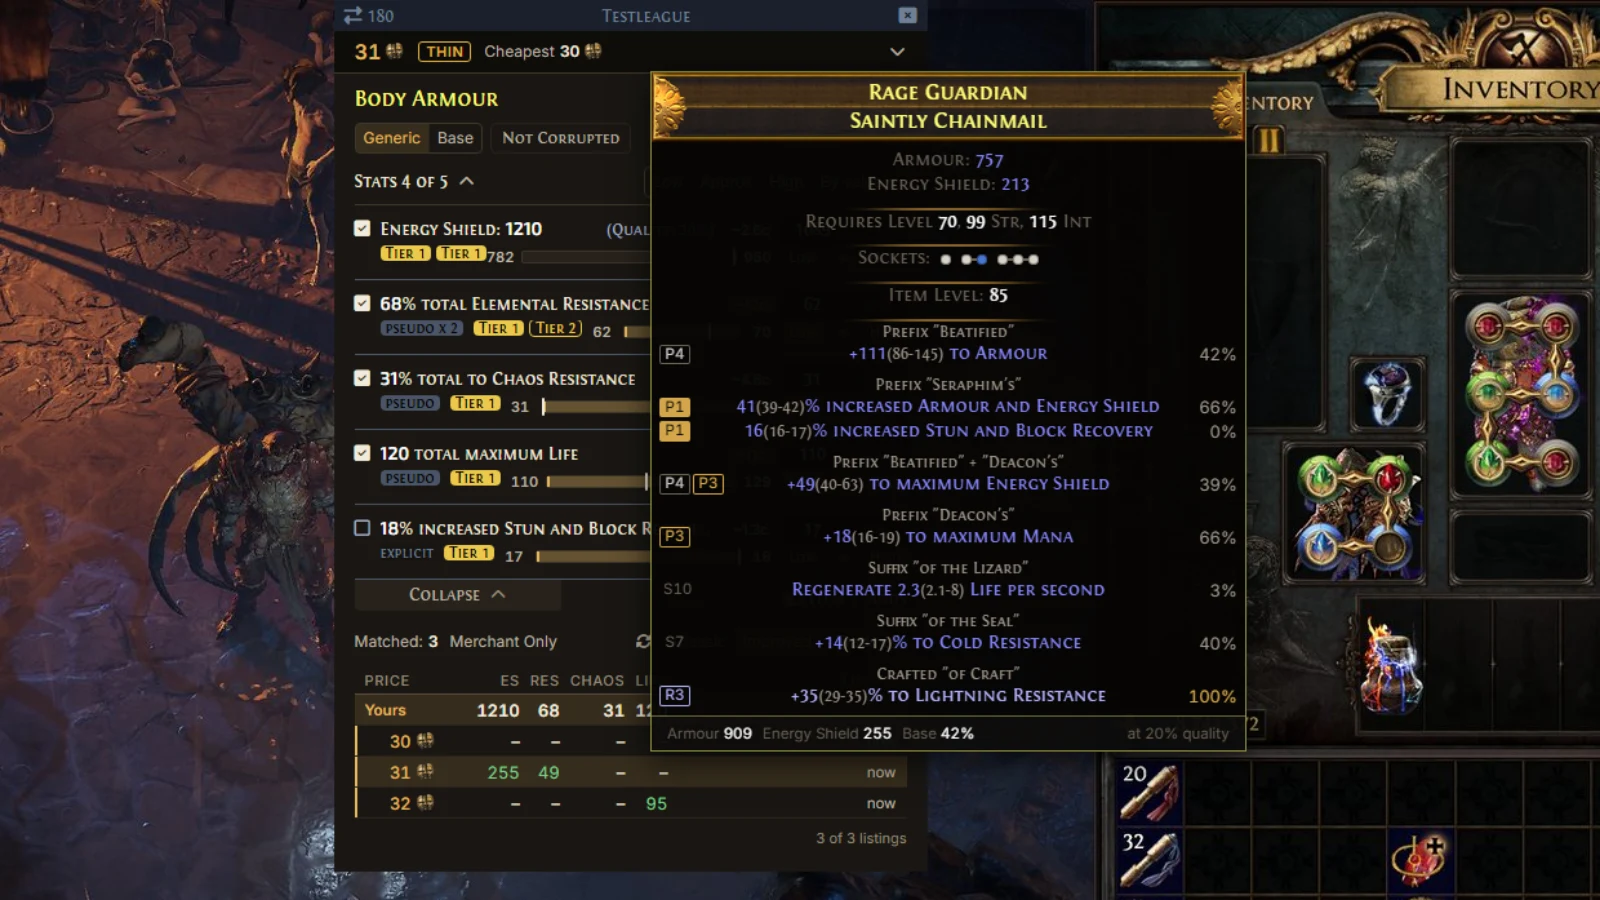
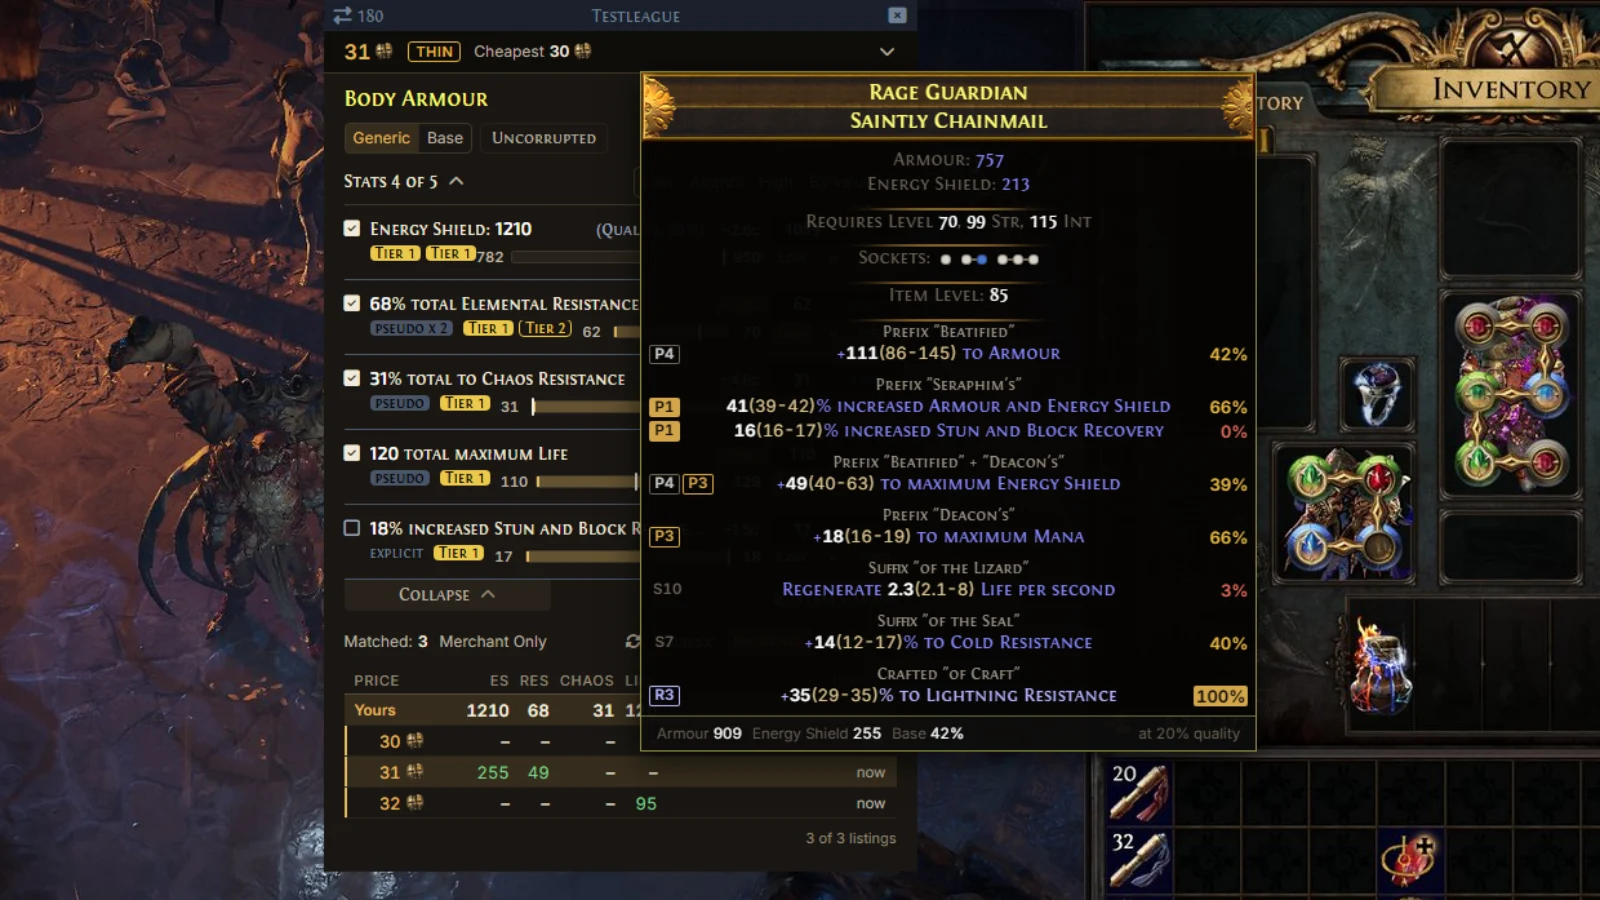
Landing page and README: what's new since v0.1.0
New slides from the real overlay: roll bars, next step, passive tree,
swap check, build icon, drop counter and death recap. Retook the shots
of panels that changed, and the stash highlighter names the tabs it reads.

diff --git a/testing/e2e/landing-highlights.spec.ts b/testing/e2e/landing-highlights.spec.ts
@@ -176,6 +176,12 @@ test('price check: a listing\'s tooltip, tiers and rolls', async ({ overlay }) =
   const tip = overlay.page.getByRole('tooltip')
   await expect(tip).toContainText('Rage Guardian')
   await saveAround(overlay, 'hl-price-tooltip', [panel.locator('.w-pc-table'), tip], 1240)
+  // Shift + scroll over the listing swaps the ranges for a bar on each roll.
+  await overlay.page.keyboard.down('Shift')
+  await overlay.page.mouse.wheel(0, 100)
+  await expect(tip.locator('[class*="bar"]').first()).toBeVisible()
+  await saveAround(overlay, 'hl-price-bars', [panel.locator('.w-pc-table'), tip], 1240)
+  await overlay.page.keyboard.up('Shift')
 })
 
 // ---- 2. Loot filter ----
@@ -239,6 +245,134 @@ test('pob: gems by level', async ({ overlay }) => {
   const detail = await openBuild(overlay)
   await overlay.page.mouse.move(1800, 1000)
   await saveAround(overlay, 'hl-pob-levelling', [detail], 1280)
+})
+
+const showcaseInUse = () => [{
+  wmType: 'woke-pob-builds',
+  wmWants: 'hide' as const,
+  wmFlags: ['invisible-on-blur'],
+  anchor: { pos: 'tl', x: 4, y: 12 },
+  buildsDir: path.join(FIXTURES, 'pob'),
+  pobExe: '',
+  pinned: [],
+  activeBuild: 'Showcase.xml',
+  followChars: {},
+  loadouts: {}
+}]
+
+test('pob: a checked item against the one your build wears', async ({ overlay }) => {
+  await overlay.boot({ widgets: showcaseInUse() })
+  await backdrop(overlay, 'frames/town-inventory.jpg')
+  await overlay.copyItem('items/rare-body-armour-es.txt')
+  const panel = overlay.widget('price-check')
+  const chip = panel.locator('[data-swap-chip]')
+  await expect(chip).toContainText('Compare to your body armour')
+  await chip.hover()
+  const tip = overlay.page.getByRole('tooltip')
+  await expect(tip).toContainText('Against your body armour')
+  await saveAround(overlay, 'hl-pob-swap', [panel.getByText('Body Armour'), panel.getByRole('button', { name: 'Search' }), tip], 1000)
+})
+
+test('pob: the build in use, on one small icon', async ({ overlay }) => {
+  await overlay.boot({ patch: lowDock, widgets: [{ ...showcaseInUse()[0], activeBuild: 'Loadouts.xml' }] })
+  await backdrop(overlay, 'frames/hideout.jpg')
+  await overlay.replayLog('client-logs/campaign-act1.txt')
+  await overlay.hoverDockIcon('pob-builds')
+  await expect(overlay.page.getByText('Your links')).toBeVisible()
+  await saveLow(overlay, 'hl-pob-hover')
+})
+
+// The Loadouts fixture allocates four points, too few to see on a whole tree.
+// The same build with real paths from the Witch start, walked over the tree
+// data: the next set adds a path to one more notable and respecs two points.
+function grownBuildsDir () {
+  type Node = [number, number, number, string, string, string[], number[]]
+  const nodes: Node[] = JSON.parse(fs.readFileSync(path.resolve(path.dirname(fileURLToPath(import.meta.url)), '../../renderer/public/data/tree/passive-tree.json'), 'utf8'))
+  const walkable = new Set(nodes.filter(n => n[3] !== 'asc' && n[3] !== 'mastery').map(n => n[0]))
+  const links = new Map<number, number[]>()
+  for (const [id, , , , , , out] of nodes) {
+    for (const to of out) {
+      if (!walkable.has(id) || !walkable.has(to)) continue
+      links.set(id, [...links.get(id) ?? [], to])
+      links.set(to, [...links.get(to) ?? [], id])
+    }
+  }
+  const WITCH = 54447
+  const from = new Map<number, number>([[WITCH, WITCH]])
+  const dist = new Map<number, number>([[WITCH, 0]])
+  for (const queue = [WITCH]; queue.length;) {
+    const at = queue.shift()!
+    for (const to of links.get(at) ?? []) {
+      if (from.has(to)) continue
+      from.set(to, at)
+      dist.set(to, dist.get(at)! + 1)
+      queue.push(to)
+    }
+  }
+  const pathTo = (id: number) => {
+    const out: number[] = []
+    for (let at = id; at !== WITCH; at = from.get(at)!) out.push(at)
+    return out
+  }
+  const notables = nodes.filter(n => n[3] === 'notable' && (dist.get(n[0]) ?? 99) >= 6 && dist.get(n[0])! <= 16).sort((a, b) => a[4].localeCompare(b[4]))
+  const picks = Array.from({ length: 9 }, (_, i) => notables[Math.floor((i + 0.5) * notables.length / 9)][0])
+  const first = new Set(picks.slice(0, 8).flatMap(pathTo))
+  const next = new Set([...first, ...pathTo(picks[8])])
+  const leaves = [...pathTo(picks[7])].filter(id => !picks.slice(0, 7).flatMap(pathTo).includes(id) && !pathTo(picks[8]).includes(id)).slice(0, 2)
+  for (const id of leaves) next.delete(id)
+  const dir = fs.mkdtempSync(path.join(os.tmpdir(), 'woke-landing-pob-'))
+  const xml = fs.readFileSync(path.join(FIXTURES, 'pob/Loadouts.xml'), 'utf8')
+    .replace('nodes="94,127,223,33435"', `nodes="${[...next].join(',')}"`)
+    .replace('nodes="94,127,223"', `nodes="${[...first].join(',')}"`)
+  fs.writeFileSync(path.join(dir, 'Loadouts.xml'), xml)
+  return dir
+}
+
+async function openLevellingBuild (overlay: Overlay, buildsDir = path.join(FIXTURES, 'pob')) {
+  await overlay.boot({
+    overlayActive: true,
+    widgets: [
+      {
+        wmType: 'woke-pob-builds',
+        wmWants: 'show',
+        wmFlags: ['invisible-on-blur'],
+        anchor: { pos: 'tl', x: 4, y: 12 },
+        buildsDir,
+        pobExe: '',
+        pinned: [],
+        activeBuild: 'Loadouts.xml',
+        followChars: {},
+        loadouts: {}
+      },
+      { wmType: 'woke-campaign', wmWants: 'show' }
+    ]
+  })
+  await backdrop(overlay, 'frames/town.jpg')
+  await overlay.replayLog('client-logs/campaign-act1.txt')
+  return overlay.page.locator('[data-w-panel]').filter({ hasText: 'Open in PoB' })
+}
+
+test('pob: what changes at the next step', async ({ overlay }) => {
+  const detail = await openLevellingBuild(overlay)
+  await expect(detail.getByRole('button', { name: /Tree: Day 1\.5 Clusters/ })).toContainText('Holy Dominion')
+  await overlay.page.mouse.move(1800, 1000)
+  await saveAround(overlay, 'hl-pob-next', [detail], 1280)
+})
+
+test('pob: the passive tree in the overlay', async ({ overlay }) => {
+  const dir = grownBuildsDir()
+  try {
+    const detail = await openLevellingBuild(overlay, dir)
+    await detail.getByRole('button', { name: /Tree: Day 1\.5 Clusters/ }).click()
+    const tree = overlay.page.locator('[data-w-panel]').filter({ hasText: 'Passive tree' }).filter({ has: overlay.page.locator('svg') }).last()
+    await expect(tree).toContainText(/\d+ new points?/)
+    // Only the tree in the picture, not the panels it opened over.
+    await detail.evaluate(el => { el.style.visibility = 'hidden' })
+    await overlay.page.mouse.move(1800, 1000)
+    await saveAround(overlay, 'hl-pob-tree', [tree], 1280)
+  } finally {
+    fs.rmSync(dir, { recursive: true, force: true })
+  }
 })
 
 // ---- 4. Market ----
@@ -368,6 +502,61 @@ test('on screen: challenges, your count and what is next', async ({ overlay }) =
   await expect(overlay.dockIcon('challenges')).toBeVisible({ timeout: 20_000 })
   await overlay.hoverDockIcon('challenges')
   await saveLow(overlay, 'hl-challenges')
+})
+
+test('on screen: the drop counter, on one small icon', async ({ overlay }) => {
+  await overlay.boot({
+    patch: lowDock,
+    widgets: [{
+      wmType: 'woke-drop-counter',
+      wmFlags: ['invisible-on-blur'],
+      wmTitle: 'Drop counter',
+      anchor: { pos: 'cc', x: 50, y: 50 },
+      items: [
+        { type: 'Currency', name: 'Divine Orb', drops: [2, 9, 21, 38] },
+        { type: 'Currency', name: 'Exalted Orb', drops: [7, 33] },
+        { type: 'Currency', name: 'Orb of Annulment', drops: [12, 25, 40] }
+      ],
+      maps: 44,
+      autoCountMaps: true,
+      layout: 'list',
+      hotkey: null
+    } as never]
+  })
+  await backdrop(overlay, 'frames/hideout.jpg')
+  await overlay.log([area('HideoutLuxurious')])
+  await expect(overlay.dockIcon('drop-counter')).toBeVisible({ timeout: 20_000 })
+  await overlay.hoverDockIcon('drop-counter')
+  await expect(overlay.dockIcon('drop-counter').getByRole('button', { name: 'Add one Divine Orb' })).toBeVisible()
+  await saveLow(overlay, 'hl-drop-counter')
+})
+
+test('on screen: the death recap names the map\'s mods', async ({ overlay, fakeApp }) => {
+  fs.rmSync(path.join(fakeApp.opts.userData, 'woke-death-recap'), { recursive: true, force: true })
+  // Log times run on from now, so the death comes a while into the map.
+  const stamp = (later = 0) => {
+    const d = new Date(Date.now() + later * 1000)
+    const p = (n: number) => String(n).padStart(2, '0')
+    return `${d.getFullYear()}/${p(d.getMonth() + 1)}/${p(d.getDate())} ${p(d.getHours())}:${p(d.getMinutes())}:${p(d.getSeconds())}`
+  }
+  const areaNow = (id: string, seed: string, level = 83) => `${stamp()} 18884906 1186a8a3 [DEBUG Client 34092] Generating level ${level} area "${id}" with seed ${seed}`
+  const info = (text: string, later = 0) => `${stamp(later)} 18887484 cffb065b [INFO Client 34092] ${text}`
+  await overlay.boot({ patch: lowDock, widgets: [{ wmType: 'woke-map-mods' }] })
+  // Zoomed past the frame's "You have entered" line, which names another area.
+  await backdrop(overlay, 'frames/cave-fight.jpg', 'right bottom / 130%')
+  await overlay.log([areaNow('HideoutArenaSearingExarch', '1', 60), info(': You have entered Searing Hideout.')])
+  await overlay.copyItem('items/map-rare-t16-deadly.txt', 'Alt + M')
+  await expect(overlay.page.locator('body')).toContainText('Cemetery')
+  overlay.app.focusGame(true)
+  await overlay.page.waitForTimeout(300)
+  await overlay.log([areaNow('MapWorldsCemetery', '42'), info(': You have entered Cemetery.'), info('The Maven: Show me.', 248), info(': Exile has been slain.', 252)])
+  const card = overlay.page.locator('[data-death-card]')
+  await expect(async () => {
+    await overlay.hoverDockIcon('death-recap')
+    await expect(card).toBeVisible({ timeout: 1500 })
+  }).toPass({ timeout: 20_000 })
+  await expect(card).toContainText('Exact')
+  await saveLow(overlay, 'hl-death-recap')
 })
 
 // ---- 6. Lab gems and regex ----

diff --git a/docs/.vitepress/theme/landing/content.js b/docs/.vitepress/theme/landing/content.js
@@ -14,7 +14,8 @@ export const HIGHLIGHTS = [
     tag: 'See what you are up against',
     slides: [
       { label: 'Competing listings', module: 'apt-price-check', shot: 'hl-price-columns', text: 'Every listing beside yours, stat by stat. Green where yours is better, red where theirs is.', alt: 'Price check of a body armour: eight listings with energy shield, resistances and life compared to yours' },
-      { label: 'Listing tooltip', module: 'apt-price-check', shot: 'hl-price-tooltip', text: 'Hover a listing to see the item as the game shows it, with mod tiers and how good each roll is.', alt: 'Tooltip of a listed body armour with the tier and roll quality of each mod' }
+      { label: 'Listing tooltip', module: 'apt-price-check', shot: 'hl-price-tooltip', text: 'Hover a listing to see the item as the game shows it, with mod tiers and how good each roll is.', alt: 'Tooltip of a listed body armour with the tier and roll quality of each mod' },
+      { label: 'Roll bars', module: 'apt-price-check', shot: 'hl-price-bars', text: 'Shift + scroll over a listing swaps the ranges for a bar on every roll, so you see how close each one came.', alt: 'The same listing tooltip with a coloured bar and percentage for each rolled number' }
     ]
   },
   {
@@ -32,8 +33,12 @@ export const HIGHLIGHTS = [
     name: 'Path of Building',
     tag: 'Your build, no alt-tab',
     slides: [
-      { label: 'Gear and links', module: 'pob-builds', shot: 'hl-pob-gear', text: 'Your gear and gem links from your PoB folder, with item tooltips and the passive tree a click away.', alt: 'A build\'s gear tab with an item tooltip and buttons for Path of Building and the passive tree' },
-      { label: 'Levelling', module: 'pob-builds', shot: 'hl-pob-levelling', text: 'Gems by level, and where to get each one.', alt: 'A build\'s leveling tab: gem links, and each gem by level with its vendor or quest' }
+      { label: 'Gear and links', module: 'pob-builds', shot: 'hl-pob-gear', text: 'Your gear and gem links from your PoB folder, with item tooltips. The search on any item opens it in the price check.', alt: 'A build\'s gear tab with an item tooltip and a price check button on each item' },
+      { label: 'Levelling', module: 'pob-builds', shot: 'hl-pob-levelling', text: 'Gems by level, and where to get each one.', alt: 'A build\'s leveling tab: gem links, and each gem by level with its vendor or quest' },
+      { label: 'Next step', module: 'pob-builds', shot: 'hl-pob-next', text: 'What changes in your next tree, gems and gear, before you get there.', alt: 'The Next section of a build: new passive points, gems to add and drop, and the gear that changes' },
+      { label: 'Passive tree', module: 'pob-builds', shot: 'hl-pob-tree', text: 'The tree right in the overlay: your points in gold, new ones in green, respecs in red.', alt: 'Passive tree panel with allocated paths, new points and a list of what the next tree adds and removes' },
+      { label: 'Swap check', module: 'pob-builds', shot: 'hl-pob-swap', text: 'Price check a piece of gear and compare its numbers to what your build wears.', alt: 'Price check of a body armour with a tooltip comparing its numbers to the build\'s body armour' },
+      { label: 'Build icon', module: 'pob-builds', shot: 'hl-pob-hover', text: 'Your links, next tree, pantheon and stats, one hover away, even in a map.', alt: 'A small dock icon with a card showing the build\'s links and next tree' }
     ]
   },
   {
@@ -42,7 +47,7 @@ export const HIGHLIGHTS = [
     tag: 'Know what pays',
     slides: [
       { label: 'Flips', module: 'scarab-flip', shot: 'hl-flips', text: 'Vendor recipes and Harvest rerolls that pay today, sorted by profit.', alt: 'Flips window: scarabs worth vendoring, with price, profit and supply' },
-      { label: 'Stash highlighter', module: 'scarab-flip', shot: 'hl-stash-outlines', text: 'Bind a key or click the icon, and what is worth flipping gets outlined right in your stash tab, with the profit on each.', alt: 'A scarab stash tab with the worthwhile stacks outlined and their profit' },
+      { label: 'Stash highlighter', module: 'scarab-flip', shot: 'hl-stash-outlines', text: 'Bind a key or click the icon. It sees which tab is open, Scarab, Delirium, Delve, Essence or Blight, and outlines what is worth flipping, with the profit on each.', alt: 'A scarab stash tab with the worthwhile stacks outlined and their profit' },
       { label: 'Boss runs', module: 'boss-runs', shot: 'tour-boss-runs', text: 'Every boss costed from entry and drops, per run and per hour, with a luck check.', alt: 'Boss runs window: Uber Atziri loot, profit per run and the luck check' },
       { label: 'Price tracker', module: 'market', shot: 'tour-market', text: 'poe.ninja prices kept as history on your PC, with movers and a watchlist.', alt: 'Market tracker watchlist with a gem\'s tooltip, beside the flips window' },
       { label: 'Lab gems', module: 'lab-gems', shot: 'hl-lab-gems', text: 'What each Divine Font roll is worth today, by gem colour and level.', alt: 'Lab gems window: value of red, green and blue gems at each level and quality' }
@@ -57,7 +62,9 @@ export const HIGHLIGHTS = [
       { label: 'League mechanics', module: 'mechanics', shot: 'hl-expedition', text: 'In Expedition, each vendor\'s currency priced, with whoever is here on top.', alt: 'Expedition card: Tujen is here, with Exotic Coinage and the other currencies priced' },
       { label: 'Campaign', module: 'campaign', shot: 'hl-campaign', text: 'Your zone, your level against it, the next steps and your run timer.', alt: 'Campaign card: the current zone, level and the next steps' },
       { label: 'Challenges', module: 'challenges', shot: 'hl-challenges', text: 'Your count and what is next, on one small icon.', alt: 'Challenges card under a small icon: 23 of 40 and the next three' },
-      { label: 'Lab run', module: 'lab', shot: 'hl-lab', text: 'Today\'s layout stays one hover away while you run.', alt: 'Today\'s Normal Labyrinth layout in a card under a small icon' }
+      { label: 'Lab run', module: 'lab', shot: 'hl-lab', text: 'Today\'s layout stays one hover away while you run.', alt: 'Today\'s Normal Labyrinth layout in a card under a small icon' },
+      { label: 'Drop counter', module: 'drop-counter', shot: 'hl-drop-counter', text: 'A tally of the drops you care about. Press +1 while you play, and maps count themselves.', alt: 'Drop counter card: maps run, and Divine Orb, Exalted Orb and Annulment counts with how long since the last' },
+      { label: 'Death recap', module: 'death-recap', shot: 'hl-death-recap', text: 'Where you died, how long in, and the mods of the map if you checked it first.', alt: 'Death recap card: Cemetery, first death, time since entering and the map\'s mods' }
     ]
   },
   {

diff --git a/README.md b/README.md
@@ -10,7 +10,7 @@ Woke PoE Trade is an overlay for Path of Exile 1, built on [Awakened PoE Trade](
 **[Download for Windows](https://github.com/guybnd/woke-poe-trade/releases/latest)** · [Website](https://guybnd.github.io/woke-poe-trade/) · [Help](https://guybnd.github.io/woke-poe-trade/quick-start) · [FAQ](https://guybnd.github.io/woke-poe-trade/faq)
 
 ### Price check
-Every listing beside yours, stat by stat, and each listing's tiers and rolls on hover.
+Every listing beside yours, stat by stat, and each listing's tiers and rolls on hover. Shift + scroll switches to a bar on every roll.
 
 <p>
   <img src="docs/public/shots/hl-price-columns.webp" width="49%" alt="Price check of a body armour: listings with each stat compared to yours">
@@ -26,15 +26,17 @@ Alt+F on an item goes to its rule. Edit any tier in the game and it reloads.
 </p>
 
 ### Path of Building
-Your gear, gem links and gems by level, from your PoB folder.
+Your gear, gem links and gems by level, from your PoB folder. See what your next tree, gems and gear change, open the passive tree in the overlay, price check a build's item, and compare a checked item to what you wear.
 
 <p>
   <img src="docs/public/shots/hl-pob-gear.webp" width="49%" alt="A build's gear tab with an item tooltip">
-  <img src="docs/public/shots/hl-pob-levelling.webp" width="49%" alt="A build's leveling tab with each gem by level">
+  <img src="docs/public/shots/hl-pob-next.webp" width="49%" alt="A build's Next section with new points, gems and gear">
+  <img src="docs/public/shots/hl-pob-tree.webp" width="49%" alt="Passive tree panel with new points and respecs">
+  <img src="docs/public/shots/hl-pob-swap.webp" width="49%" alt="Price check comparing a body armour to the build's">
 </p>
 
 ### Market
-Flips that pay today, outlined in your stash, plus boss runs and lab gems.
+Flips that pay today, outlined in your Scarab, Delirium, Delve, Essence or Blight tab, plus boss runs and lab gems.
 
 <p>
   <img src="docs/public/shots/hl-flips.webp" width="49%" alt="Flips window: scarabs worth vendoring">
@@ -44,13 +46,15 @@ Flips that pay today, outlined in your stash, plus boss runs and lab gems.
 </p>
 
 ### On your screen
-Small icons that open when they matter: trades, league mechanics, campaign, challenges, the lab.
+Small icons that open when they matter: trades, league mechanics, campaign, challenges, the lab, your drop tally, your last death.
 
 <p>
   <img src="docs/public/shots/hl-trade.webp" width="49%" alt="Trade card with buyers and the stash position">
   <img src="docs/public/shots/hl-expedition.webp" width="49%" alt="Expedition card with vendor currencies priced">
   <img src="docs/public/shots/hl-campaign.webp" width="49%" alt="Campaign card with the zone and next steps">
   <img src="docs/public/shots/hl-lab.webp" width="49%" alt="Today's labyrinth layout in a card">
+  <img src="docs/public/shots/hl-drop-counter.webp" width="49%" alt="Drop counter card with drop counts and maps run">
+  <img src="docs/public/shots/hl-death-recap.webp" width="49%" alt="Death recap card with the map's mods">
 </p>
 
 ### Regex
